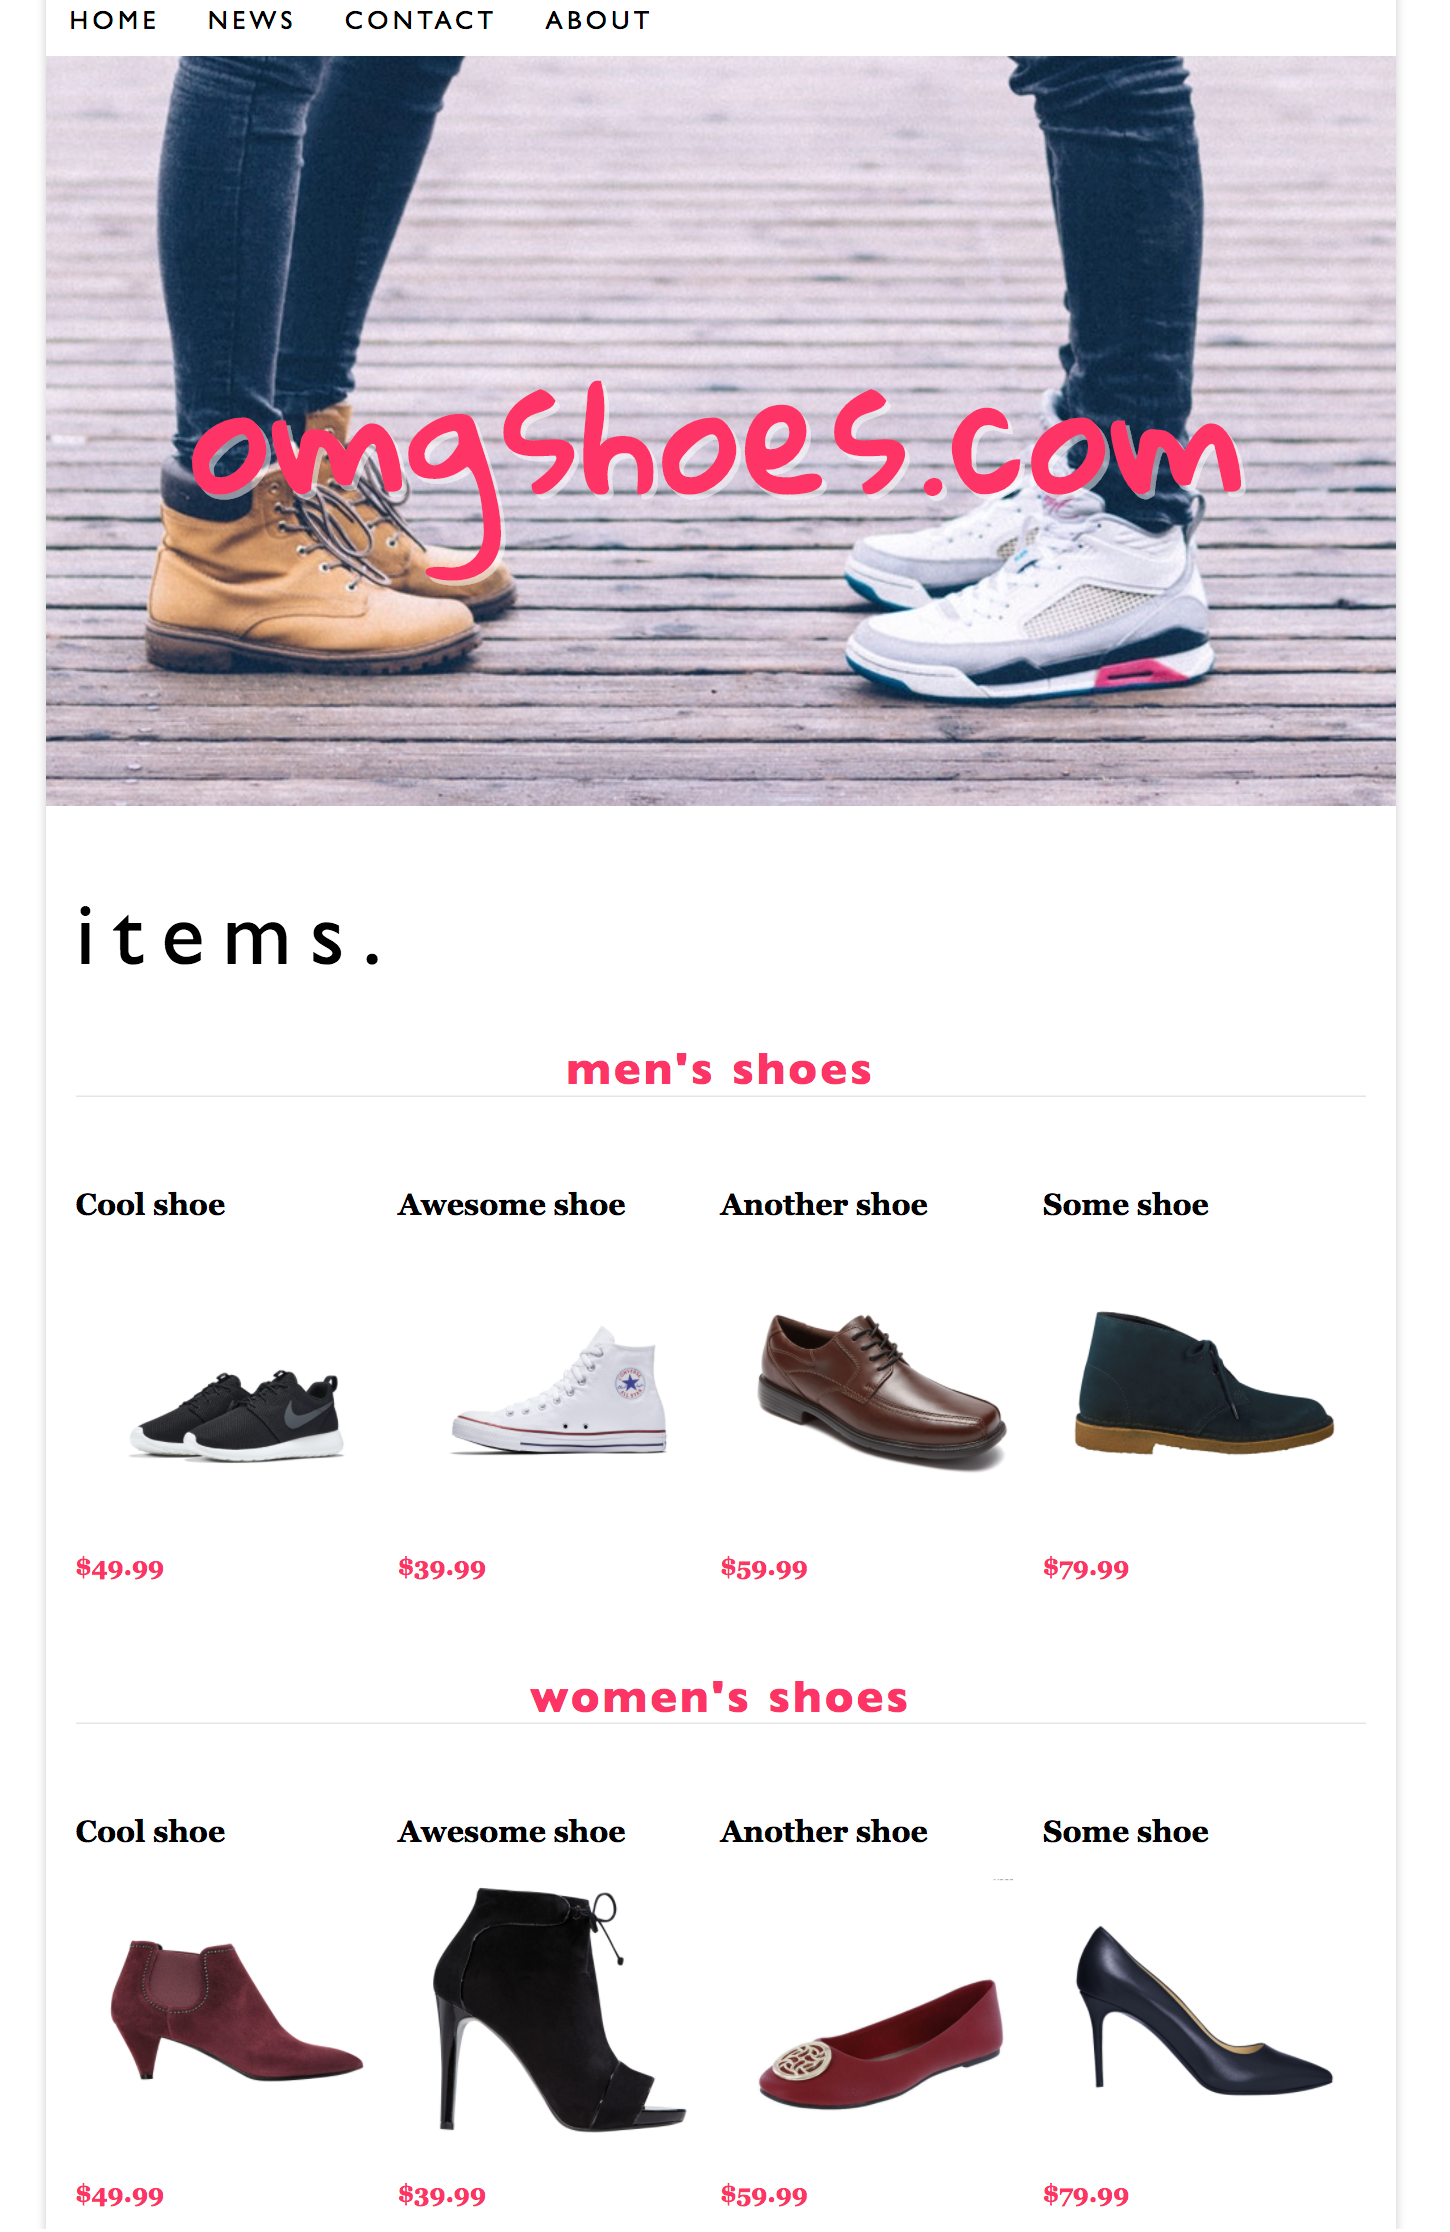
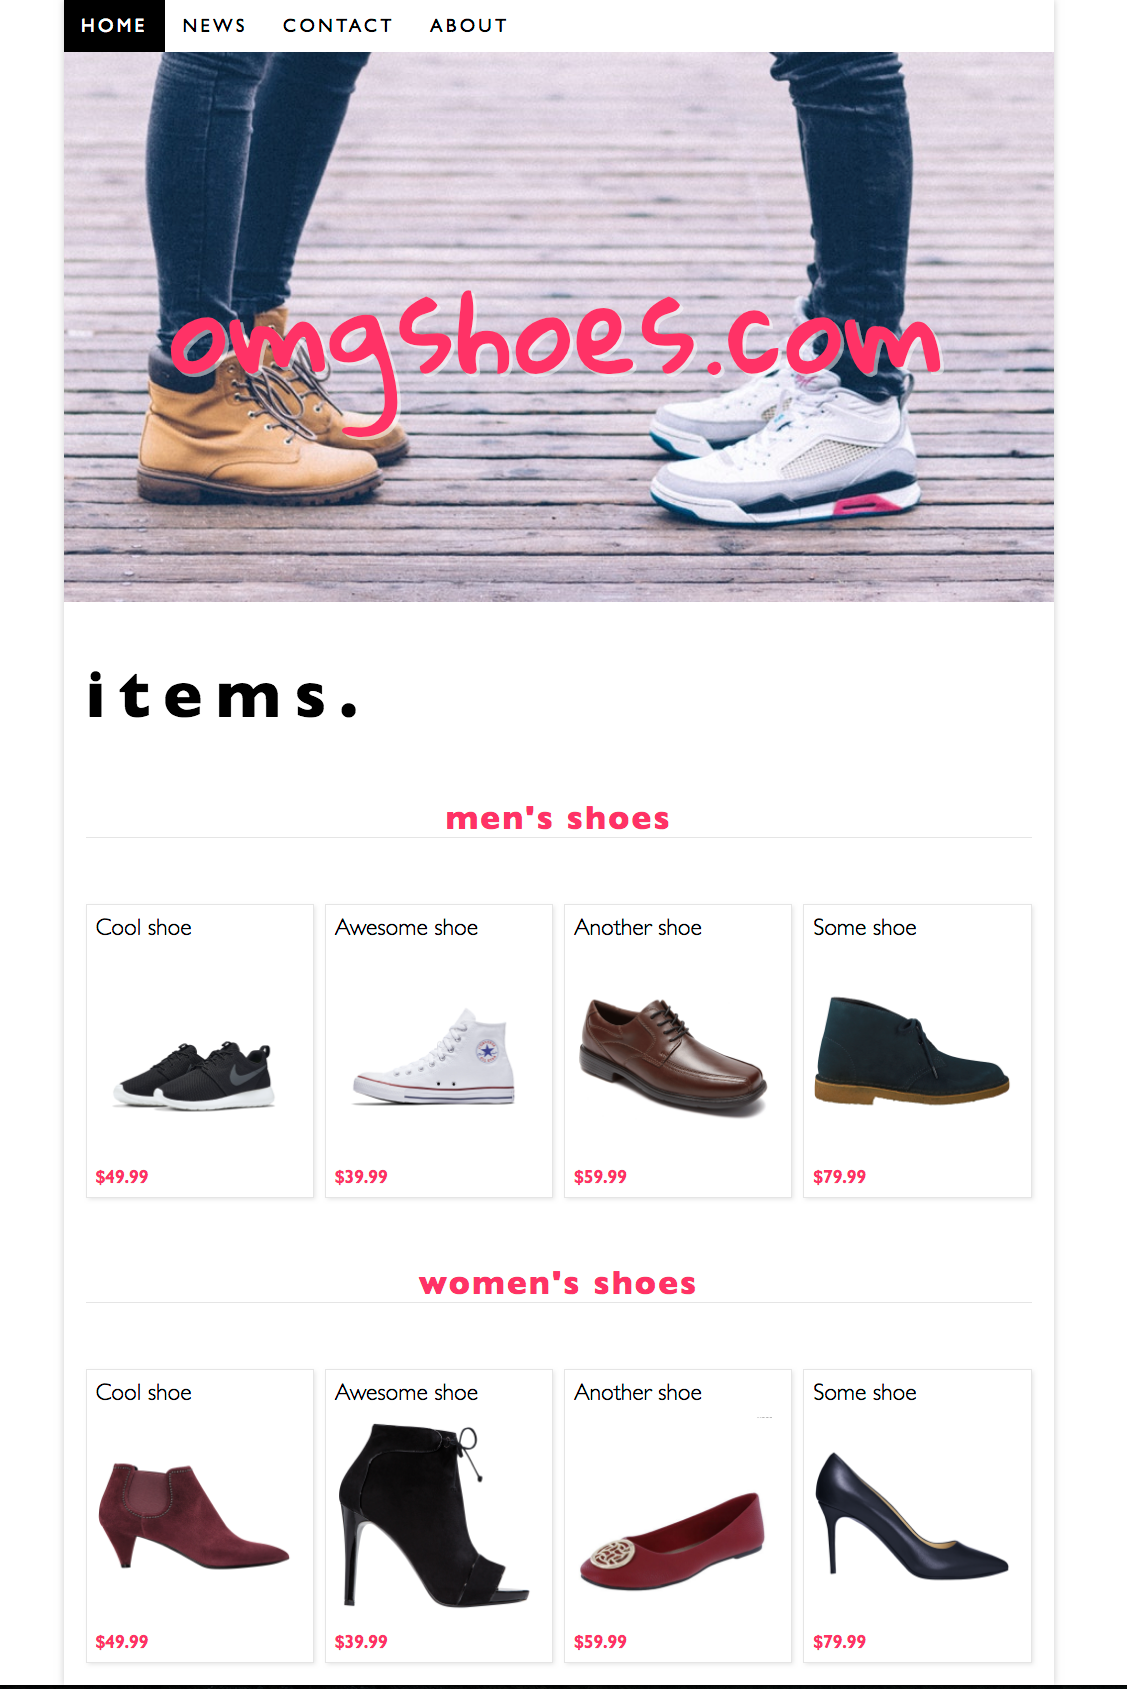
add grid stuff

diff --git a/_includes/navs/fa18-nav.html b/_includes/navs/fa18-nav.html
@@ -50,7 +50,7 @@
                     <!--<a href="{{path}}/assignments/hw4.html" class="dropdown-item">Homework Four</a>-->
                     <div class="dropdown-divider"></div>
                     <a href="{{path}}/assignments/p1.html" class="dropdown-item">Project One</a>
-                    <!--<a href="{{path}}/assignments/p2.html" class="dropdown-item">Project Two</a>-->
+                    <a href="{{path}}/assignments/p2.html" class="dropdown-item">Project Two</a>
                     <!--<a href="{{path}}/assignments/p3.html" class="dropdown-item">Project Three</a>-->
                     <!--<a href="{{path}}/assignments/p4.html" class="dropdown-item">Project Four</a>-->
                     {% endif %}

diff --git a/fa18/j363/assignments/p2.md b/fa18/j363/assignments/p2.md
@@ -3,7 +3,7 @@ layout: default
 title: J363 - Project Two
 footer: ''
 highlight: 'assignments'
-term: 'sp18'
+term: 'fa18'
 course: 'j363'
 ---
 # Project Two --- <small>Layouts with CSS `15 points`</small>
@@ -12,7 +12,7 @@ You will use CSS `grid` to create a layout for a fictional online shop. This can
 
 <div class="card-block">
   <p class="card-text">I've created an example shoe store website as a reference:</p>
-  <a href="shoes/example.png" class="btn btn-primary" target="_blank">View Example</a>
+  <a href="img/shoes/example.png" class="btn btn-primary" target="_blank">View Example</a>
 </div>
 
 This project may appear daunting at first, but if you are motivated to work on it regularly over the next couple of weeks, you will do well. I will cover many of the components during class activities so that you have some example code to work with.
@@ -40,7 +40,7 @@ CSS Grid is a useful way of organizing CSS elements and creating layouts. You ar
 ## Approach
 
  * Begin with an idea --- sporting goods, vacation packages, baking supplies
- * Work at a steady, regularly pace. You have several weeks to complete this assignment, but you should __begin immediately__.
+ * Work at a steady, regularly pace. You have a while to complete this assignment, but you should __begin immediately__.
  * Show me your progress each session. The more often I see your site, the more I can help guide you. If you begin your project the week that it's due, I will have little time to help you.
  * Find and download all of the images you need. Keep them in your `img` folder.
  * CLICK THE LINKS in this document and READ THEM. It will save you a lot of work.
@@ -127,15 +127,14 @@ If you wanted a 2x4 grid with 10 pixels of spacing between each item, you might 
 ##### Organizing your images
 You will want to make an `img` folder and keep your images in there:
 
-<img src="shoes/images.png" class="tut" alt="images directory">
+<img src="img/shoes/images.png" class="tut" alt="images directory">
 
 #### Getting product images
 1. Use Google Images.
 2. Type in the name of the product you want _(e.g., glasses)_, followed by a space and `filetype:png` _(or whatever filetype you want)_. This will give you results of "glasses" that are all `png` images.
 3. Click 'Tools', then click 'Size' and choose 'Exactly...'. I recommend entering a size like 200x200 or 400x400 for square images.
 
-<img src="shoes/getting-images.png" class="tut" alt="images directory">
-
+<img src="img/shoes/getting-images.png" class="tut" alt="product image">
 
 
 #### Placeholder images
@@ -150,14 +149,23 @@ This will give you a 400x200 pixel placeholder image from the _fashion_ section 
 
  <img src="http://lorempixel.com/400/200/fashion/3" class="tut" alt="a product">
 
+#### Resizing images
+If you images are too large, and they cause your grid to break the page, you might try setting a maximum width on them:
+
+```css
+.item img {
+    max-width: 100%;
+}
+```
+
 ### Text
 You can use [lorem ipsum](http://www.lipsum.com/) placeholder text, or fill in text as you see fit. The idea of this assignment is to create a prototype; something that communicates a strong idea of a finished product.
 
 ### File and folder names `1 pts.`
  * DO NOT use spaces in your filenames. Use hyphens instead
  * DO NOT use capital letters in your filenames
- * Your site folder should be named `p2_lastname-firstname` _(e.g., p2_aguirre-nicolas)_
- * You will submit a `.zip` file. Right-click on your site folder and choose `compress`. Make sure this file is called `p2_lastname-firstname.zip`
+ * Your site folder should be named `p2-lastname-firstname` _(e.g., p2-aguirre-nicolas)_
+ * You will submit a `.zip` file. Right-click on your site folder and choose `compress`. Make sure this file is called `p2-lastname-firstname.zip`
 
 ### Code Quality `2 pts.`
 Your code should:
@@ -171,4 +179,4 @@ Your code should:
 ## Submission - Canvas
 Submit your compressed file _(zip)_ to: `CANVAS > ASSIGNMENTS > PROJECT 2`
 
-#### **Due Friday March 9th at 11:59pm**
+#### **Due Monday October 15th at 11:59pm**

diff --git a/fa18/g290/assignments/p2-redesign.md b/fa18/g290/assignments/p2-redesign.md
@@ -1,0 +1,44 @@
+---
+layout: default
+title: G290 - Project Two
+footer: ''
+highlight: 'assignments'
+term: 'fa18'
+course: 'g290'
+---
+# Project Two - <small>UI Re-design</small> `15 pts.`
+## Description
+For Project Two, you will choose a game with poor UI and create a re-designed, high-fidelity mockup.
+
+You are suggested to use Illustrator or Photoshop.
+
+### Choosing a game
+ * The chosen game should be fairly UI-heavy _(e.g., an MMORPG is probably a better choice than an endless runner)_
+ * Choose a game in which the UI presents substantial usability problems _(UI should be dysfunctional, not just ugly)_
+ * Your re-design should be markedly different from the original. This is a complete re-design, not just polishing or resizing buttons.
+ * Find a high-resolution screenshot with no UI and re-design on top of it.
+
+Some games with bad UI that are easy to redesign:
+ * Skyrim
+ * Dark Souls
+ * The Witcher
+ * World of Warcraft
+ * Playstation All Stars
+ * Call of Duty
+
+
+## Process
+
+
+## Deliverables
+You will submit a single `.zip` file that contains:
+
+1. ~200-300 word description of UI problems in your chosen game (`.docx`, `.pdf` or `.txt`). Try to use descriptive language that reflects principles discussed in __Omer Younas'__ talk or in class.
+2. Source screenshot (high-resolution `.jpg` or `.png`)
+3. Illustrator or Photoshop files (`.ai`, `.psd`)
+4. High-resolution rendering of your finished re-design (`.jpg`, `.png`, or `.pdf`)
+
+## Submission - Canvas
+You will submit a single `.zip` file with everything. See the __deliverables__ section above for details.
+
+#### **Due Wednesday September 19th @ 11:59pm**

diff --git a/fa18/j363/index.md b/fa18/j363/index.md
@@ -151,11 +151,19 @@ This week you will familiarize yourself with course materials and get a basic un
  * `download`: [7.1-color.zip](mats/7.1-color.zip)
    * After generating three palettes, submit a screenshot to `Canvas` for today's participation
 
+#### Wednesday
+ * Need a refresher on CSS `position`? [This guide](https://zellwk.com/blog/css-positions/) may be helpful.
+ * `download`: [7.2-hero-image.zip](mats/7.2-hero-image.zip)
+ * `download`: [7.3-grid.zip](mats/7.3-grid.zip)
+
 
 ### At Home
  * `review` slides: [Color](slides/181001-color.pdf)
+ * `begin` [Project Two](assignments/p2.html). It is due `Monday October 15th`.
 
 #### Codecademy
  * `continue` course: [Learn CSS](https://www.codecademy.com/learn/learn-css)
  * `complete` section 3: Display and Position
  * `complete` section 4: CSS Color
+ * You may `skip` section 5: Typography if you feel comfortable with it already
+ * `begin` section 6: CSS Grid

diff --git a/fa18/g290/inspiration.md b/fa18/g290/inspiration.md
@@ -70,6 +70,7 @@ Your game will likely have a distinct visual style. You may find it helpful to e
  * Uplabs--- [Website style guides](https://www.uplabs.com/posts/c/web/resources/style_guide)
  * Google--- [Material Design](https://material.io/guidelines/material-design/introduction.html)
  * Firefox--- [Photon Design System](https://design.firefox.com/photon/welcome.html)
+ * Shopify--- [Polaris Design System](https://polaris.shopify.com/)
  * Lonely Planet--- [Style Guide](http://rizzo.lonelyplanet.com/styleguide/design-elements/colours)
  * Medium--- [Style Guides by Pro Designers](https://medium.com/inspiration-supply/style-guides-by-pro-designers-5605707afc07)
  * AirBnB--- [Building A Visual Language](https://airbnb.design/building-a-visual-language/)

diff --git a/fa18/g290/assignments/delete.md b/fa18/g290/assignments/delete.md
@@ -1,12 +1,12 @@
 ---
 layout: default
-title: G290 - Project One
+title: G290 - Project Two
 footer: ''
 highlight: 'assignments'
 term: 'fa18'
 course: 'g290'
 ---
-# Project One - <small>Sketching and Lofi Prototypes</small> `15 pts.`
+# Project Two - <small>Sketching and Lofi Prototypes</small> `15 pts.`
 ## Description
 Project One involves sketching out a game interface, and generating a minimal, low-fidelity prototype with Illustrator.
 
